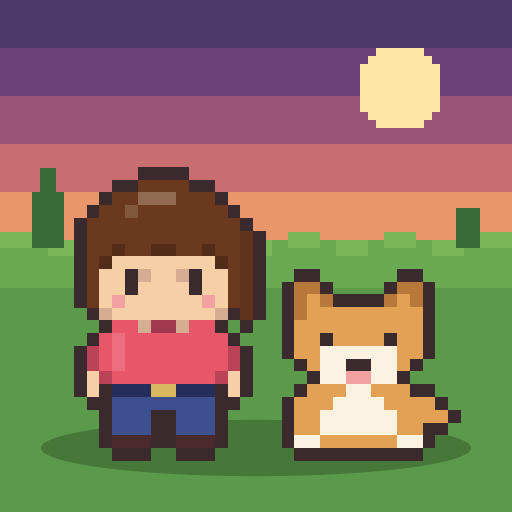
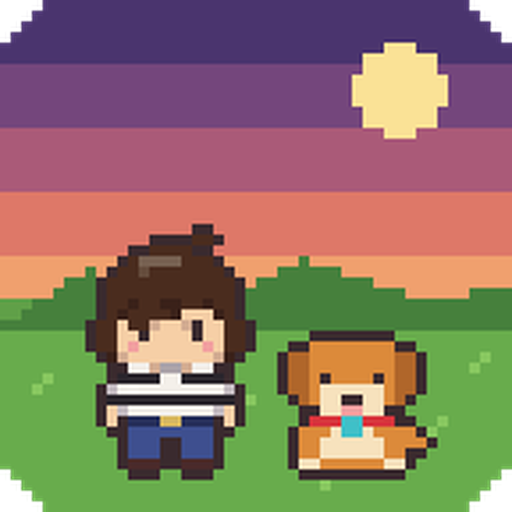
Icona nuova: Grimo con la maglia a righe e Beba dorata
Le icone del sito (scheda del browser, app installata, schermata Home del
telefono) erano ancora quelle del 2 novembre; ora sono quelle del 14 novembre,
come nel gioco. Service worker con cache nuova, così le icone si aggiornano.

diff --git a/sw.js b/sw.js
@@ -1,6 +1,6 @@
 // Service worker: tiene in memoria il gioco, così una volta aperto funziona anche senza internet.
 // Scritto da tools/sito-completo.mjs: a ogni versione nuova cambia il nome della cache e si riscarica tutto.
-const CACHE = "grimo-beba-1795030824115";
+const CACHE = "grimo-beba-1795046494516";
 const FILES = ["./","./manifest.webmanifest","./icona-192.png","./icona-512.png","./apple-touch-icon.png"];
 
 self.addEventListener("install", (e) => {
